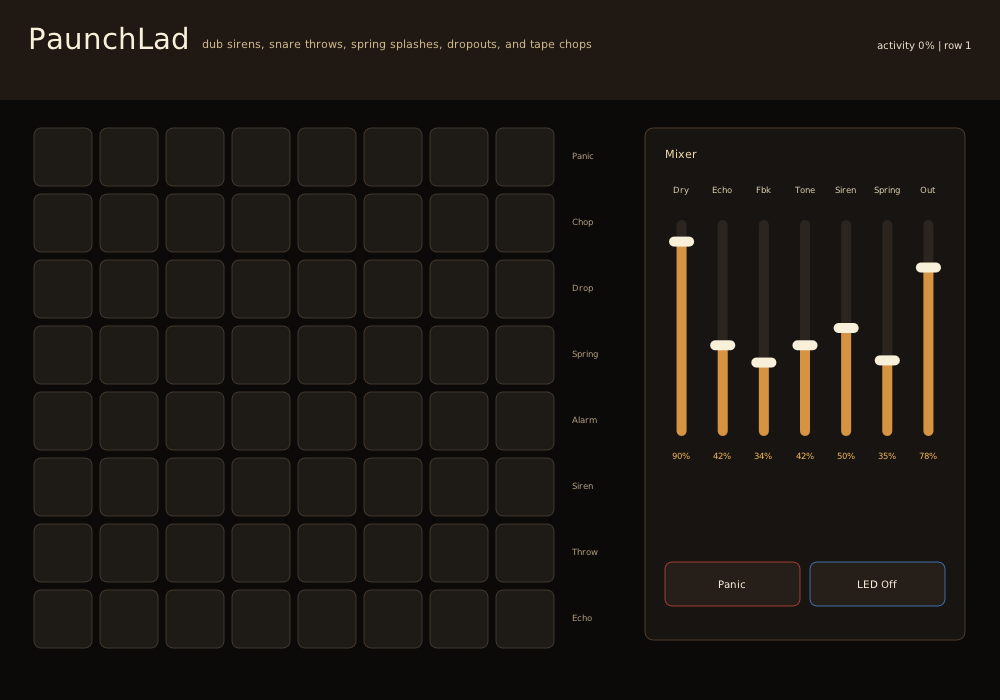
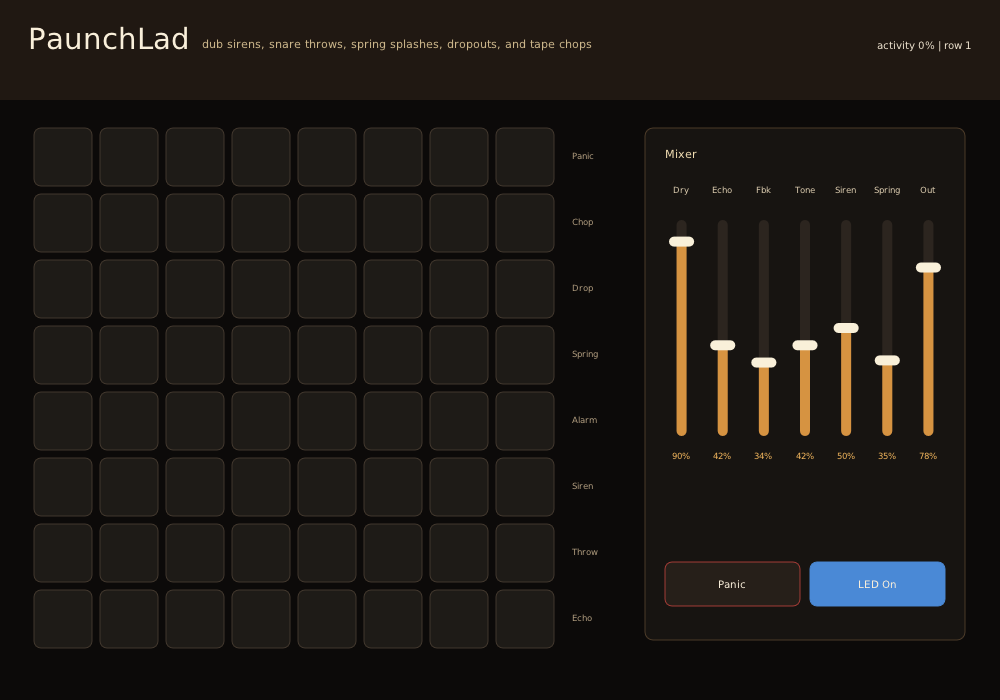
simplifying for bugfix

Changed region(s): [[0.806, 0.78, 0.961, 0.87]]

diff --git a/plugins/paunchlad/src/paunchlad_processor.cpp b/plugins/paunchlad/src/paunchlad_processor.cpp
@@ -195,28 +195,34 @@ bool Processor::handleGridPress(const std::uint8_t note, const std::uint8_t velo
     std::size_t col = 0;
 
     bool mapped = false;
-    if (parameters_[kParamLedFeedback] >= 0.5f && noteToGrid(note, row, col))
-    {
-        inputLayout_ = LaunchpadInputLayout::programmer;
-        mapped = true;
-    }
-    else if (inputLayout_ == LaunchpadInputLayout::programmer)
+    if (parameters_[kParamLedFeedback] >= 0.5f)
     {
         mapped = noteToGrid(note, row, col);
+        if (mapped)
+            inputLayout_ = LaunchpadInputLayout::programmer;
     }
-    else if (inputLayout_ == LaunchpadInputLayout::custom)
+    else
     {
-        mapped = noteToDefaultCustomGrid(note, row, col);
-    }
-    else if (noteToDefaultCustomGrid(note, row, col))
-    {
-        inputLayout_ = LaunchpadInputLayout::custom;
-        mapped = true;
-    }
-    else if (noteToGrid(note, row, col))
-    {
-        inputLayout_ = LaunchpadInputLayout::programmer;
-        mapped = true;
+        if (inputLayout_ == LaunchpadInputLayout::programmer)
+            mapped = noteToGrid(note, row, col);
+        else if (inputLayout_ == LaunchpadInputLayout::custom)
+            mapped = noteToLinearChromaticGrid(note, row, col) || noteToDefaultCustomGrid(note, row, col);
+
+        if (!mapped && noteToLinearChromaticGrid(note, row, col))
+        {
+            inputLayout_ = LaunchpadInputLayout::custom;
+            mapped = true;
+        }
+        if (!mapped && noteToDefaultCustomGrid(note, row, col))
+        {
+            inputLayout_ = LaunchpadInputLayout::custom;
+            mapped = true;
+        }
+        if (!mapped && noteToGrid(note, row, col))
+        {
+            inputLayout_ = LaunchpadInputLayout::programmer;
+            mapped = true;
+        }
     }
 
     if (!mapped)

diff --git a/plugins/paunchlad/tests/paunchlad_core_tests.cpp b/plugins/paunchlad/tests/paunchlad_core_tests.cpp
@@ -65,17 +65,17 @@ int main()
     auto result = processor.processBlock(inLeft.data(), inRight.data(), outLeft.data(), outRight.data(), 512, &siren, 1);
     require(processor.getParameter(kParamStatusCellStart + downspout::paunchlad::cellIndex(2, 3)) == 1.0f,
             "paunchlad status cell should reflect triggered siren pad");
-    require(result.eventCount == 0, "paunchlad should not emit LED MIDI until LED feedback is enabled");
+    require(containsMidi(result, 0x90, gridToNote(2, 3), kLedPurple),
+            "paunchlad LED feedback should follow Luma-style programmer mode by default");
 
     float peak = 0.0f;
     for (std::size_t i = 0; i < outLeft.size(); ++i)
         peak = std::max(peak, std::max(std::fabs(outLeft[i]), std::fabs(outRight[i])));
     require(peak > 0.005f, "paunchlad siren should produce audible output");
 
-    processor.setParameter(kParamLedFeedback, 1.0f);
+    processor.setParameter(kParamLedFeedback, 0.0f);
     result = processor.processBlock(inLeft.data(), inRight.data(), outLeft.data(), outRight.data(), 512, &siren, 1);
-    require(containsMidi(result, 0x90, gridToNote(2, 3), kLedPurple),
-            "paunchlad LED feedback should light triggered siren pad when enabled");
+    require(result.eventCount == 0, "paunchlad should stop emitting LED MIDI when LED feedback is disabled");
 
     processor.activate();
     processor.setParameter(kParamSirenLevel, 0.0f);
@@ -94,26 +94,17 @@ int main()
     require(loudPeak > mutedPeak + 0.005f, "paunchlad siren level parameter should change generated siren output");
 
     processor.activate();
+    processor.setParameter(kParamLedFeedback, 0.0f);
     inLeft[0] = 1.0f;
     inRight[0] = 1.0f;
     MidiMessage custom {};
     custom.size = 3;
     custom.data[0] = 0x90;
-    custom.data[1] = 36 + 2 * 4 + 3;
+    custom.data[1] = 36 + 2 * 8 + 3;
     custom.data[2] = 127;
     result = processor.processBlock(inLeft.data(), inRight.data(), outLeft.data(), outRight.data(), 512, &custom, 1);
     require(processor.getParameter(kParamStatusCellStart + downspout::paunchlad::cellIndex(2, 3)) == 1.0f,
-            "paunchlad should map Launchpad default custom/user note mode onto the performance grid");
-
-    processor.activate();
-    MidiMessage defaultRightHalf {};
-    defaultRightHalf.size = 3;
-    defaultRightHalf.data[0] = 0x90;
-    defaultRightHalf.data[1] = 68;
-    defaultRightHalf.data[2] = 127;
-    result = processor.processBlock(inLeft.data(), inRight.data(), outLeft.data(), outRight.data(), 512, &defaultRightHalf, 1);
-    require(processor.getParameter(kParamStatusCellStart + downspout::paunchlad::cellIndex(0, 4)) == 1.0f,
-            "paunchlad should map Launchpad default custom right half notes into columns 5-8");
+            "paunchlad should map linear chromatic Launchpad-style notes when LEDs are disabled");
 
     MidiMessage echo {};
     echo.size = 3;

diff --git a/plugins/paunchlad/include/paunchlad_params.hpp b/plugins/paunchlad/include/paunchlad_params.hpp
@@ -45,7 +45,7 @@ inline constexpr std::array<ParamSpec, 8> kControlParamSpecs = {{
     {"siren_level", "Siren", 0.0f, 1.0f, 0.50f, false, false, false, false},
     {"spring", "Spring", 0.0f, 1.0f, 0.35f, false, false, false, false},
     {"output", "Output", 0.0f, 1.0f, 0.78f, false, false, false, false},
-    {"led_feedback", "LED Feedback", 0.0f, 1.0f, 0.0f, true, true, false, false},
+    {"led_feedback", "LED Feedback", 0.0f, 1.0f, 1.0f, true, true, false, false},
 }};
 
 inline constexpr std::array<std::uint8_t, 9> kTopButtonCCs = {{
@@ -109,6 +109,17 @@ inline constexpr std::uint8_t kLedPink = 57;
     }
 
     return false;
+}
+
+[[nodiscard]] constexpr bool noteToLinearChromaticGrid(const std::uint8_t note, std::size_t& row, std::size_t& col) noexcept
+{
+    if (note < 36u || note > 99u)
+        return false;
+
+    const std::uint8_t offset = static_cast<std::uint8_t>(note - 36u);
+    row = static_cast<std::size_t>(offset / 8u);
+    col = static_cast<std::size_t>(offset % 8u);
+    return row < kGridHeight;
 }
 
 [[nodiscard]] constexpr std::size_t cellIndex(const std::size_t row, const std::size_t col) noexcept

diff --git a/plugins/paunchlad/src/dpf/PaunchLadUI.cpp b/plugins/paunchlad/src/dpf/PaunchLadUI.cpp
@@ -15,6 +15,7 @@ using downspout::paunchlad::kCellCount;
 using downspout::paunchlad::kControlParamSpecs;
 using downspout::paunchlad::kGridHeight;
 using downspout::paunchlad::kGridWidth;
+using downspout::paunchlad::gridToNote;
 using downspout::paunchlad::kParamDry;
 using downspout::paunchlad::kParamLedFeedback;
 using downspout::paunchlad::kParamPanic;
@@ -423,6 +424,14 @@ private:
 
     void triggerParameter(const std::uint32_t parameter)
     {
+        if (parameter < kCellCount)
+        {
+            const std::size_t row = parameter / kGridWidth;
+            const std::size_t col = parameter % kGridWidth;
+            sendNote(0, gridToNote(row, col), 127);
+            return;
+        }
+
         editParameter(parameter, true);
         setParameterValue(parameter, 1.0f);
         editParameter(parameter, false);

diff --git a/plugins/paunchlad/README.md b/plugins/paunchlad/README.md
@@ -9,18 +9,18 @@ It is both practical and playable:
 - stereo audio input/output passes the source through a dub delay path;
 - Launchpad MIDI input triggers momentary performance actions;
 - generated sirens and spring splashes are mixed into the audio output;
-- optional MIDI output sends Launchpad Mini Mk3 Programmer Mode LED feedback.
+- MIDI output sends Launchpad Mini Mk3 Programmer Mode LED feedback by default.
 
-LED feedback is off by default. Leave it off when the plugin's MIDI output is
-routed onward to instruments, because Launchpad LED updates are ordinary MIDI
-note/CC messages and can otherwise play notes. Enable it only when the track's
-MIDI output is routed directly back to the Launchpad hardware.
+LED feedback follows the same approach as Luma: it is on by default so the
+Launchpad enters programmer mode and the grid uses the reliable `11..88` pad
+map. Leave it on when the plugin's MIDI output is routed directly back to the
+Launchpad hardware. Turn it off when the plugin's MIDI output is routed onward
+to instruments, because Launchpad LED updates are ordinary MIDI note/CC
+messages and can otherwise play notes.
 
-PaunchLad accepts both the Launchpad programmer grid notes (`11..88`) and the
-default custom/user grid layout (`36..67` on the left half, `68..99` on the
-right half). With LED feedback enabled it assumes programmer mode; with LEDs
-disabled it defaults to the custom/user layout used by the Launchpad as a simple
-MIDI source.
+PaunchLad accepts the Launchpad programmer grid notes (`11..88`) while LED
+feedback is enabled. With LEDs disabled it falls back to a linear chromatic grid
+(`36..99`) because that is the common simple MIDI-source layout.
 
 ## Grid layout
 
@@ -42,9 +42,10 @@ buttons set siren level from low to high.
 2. Send snare, percussion, vocal, or full drum bus audio into that track.
 3. Enable the Launchpad MIDI input for that track, but avoid also routing the
    same Launchpad input directly to a synth track unless you want those notes.
-4. Leave PaunchLad's `LED Feedback` button off for simple MIDI-source use.
-5. For LEDs, set the track's `MIDI Hardware Output` to the Launchpad output
-   port, then enable PaunchLad's `LED Feedback` button.
+4. Set the track's `MIDI Hardware Output` to the Launchpad output port for LED
+   feedback. This is the recommended setup and matches Luma.
+5. If you route PaunchLad's MIDI output onward to instruments instead, turn
+   `LED Feedback` off.
 
 For classic snare echo, put PaunchLad on an aux/return and send only the snare
 or rimshot to it. For live dub mixing, put it on a drum bus and use the dry,

diff --git a/plugins/paunchlad/docs/design.md b/plugins/paunchlad/docs/design.md
@@ -14,13 +14,14 @@ Core roles:
 
 The first pass supports two Launchpad input layouts:
 
-- custom/user note mode, using notes `36..67` on the left half and `68..99` on
-  the right half, is the default because it matches the Launchpad's plain
-  MIDI-source behaviour;
-- programmer grid mode, using notes `11..88`, is assumed when LED feedback is
-  enabled.
+- programmer grid mode, using notes `11..88`, is the default because LED
+  feedback is on by default and sends the same programmer-mode setup used by
+  Luma;
+- linear chromatic note mode, using notes `36..99`, is accepted when LED
+  feedback is off. This deliberately takes priority over split custom/user maps
+  because the note ranges overlap and a single pad press cannot disambiguate
+  them reliably.
 
-LED feedback is intentionally off by default. The LED messages are normal MIDI
-note and CC output, so enabling them is only practical when the host routes the
-plugin MIDI output directly back to the Launchpad hardware instead of into
-another instrument.
+LED feedback is useful but must be routed deliberately. The LED messages are
+normal MIDI note and CC output, so they should go directly back to the Launchpad
+hardware instead of into another instrument.

diff --git a/docs/pages/_products/paunchlad.md b/docs/pages/_products/paunchlad.md
@@ -15,6 +15,6 @@ vocals, or live input. It combines a stereo dub delay, internal siren sweeps,
 spring-style splashes, dry dropouts, and rhythmic chops for hands-on
 performance.
 
-It works with the Launchpad's default custom/user note layout, and can
-optionally switch to LED feedback when the plugin MIDI output is routed back to
-the Launchpad rather than onward to instruments.
+It follows Luma's Launchpad control path by default: LED feedback puts the
+hardware into programmer mode, while LED-off use falls back to a simple
+chromatic grid.